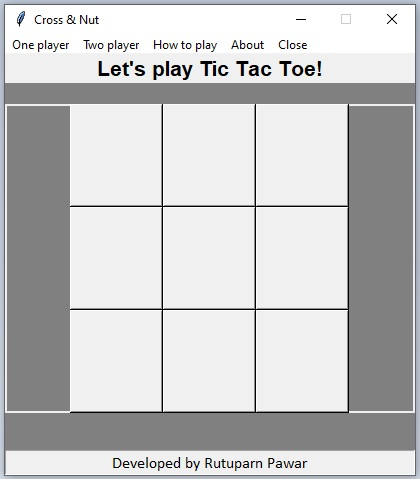
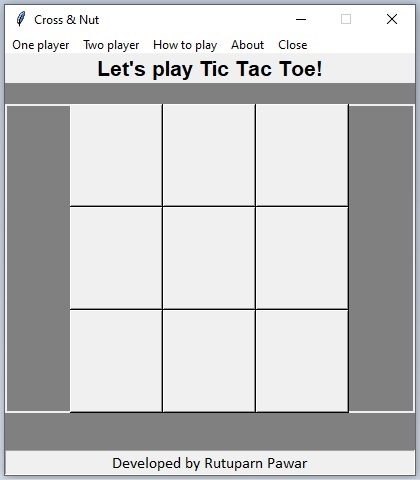
Marker color changed to light green

diff --git a/Tic_Tac_Toe.py b/Tic_Tac_Toe.py
@@ -249,19 +249,19 @@ class GUI(Tk):
 						win_count = win_count + 1
 				if win_count == 3:
 					if x == 0:
-						self.b_list[0].configure(bg='green')
-						self.b_list[1].configure(bg='green')
-						self.b_list[2].configure(bg='green')
+						self.b_list[0].configure(bg='#AFFFAF')
+						self.b_list[1].configure(bg='#AFFFAF')
+						self.b_list[2].configure(bg='#AFFFAF')
 						break 
 					elif x == 1:
-						self.b_list[3].configure(bg='green')
-						self.b_list[4].configure(bg='green')
-						self.b_list[5].configure(bg='green')
+						self.b_list[3].configure(bg='#AFFFAF')
+						self.b_list[4].configure(bg='#AFFFAF')
+						self.b_list[5].configure(bg='#AFFFAF')
 						break
 					elif x == 2:
-						self.b_list[6].configure(bg='green')
-						self.b_list[7].configure(bg='green')
-						self.b_list[8].configure(bg='green')
+						self.b_list[6].configure(bg='#AFFFAF')
+						self.b_list[7].configure(bg='#AFFFAF')
+						self.b_list[8].configure(bg='#AFFFAF')
 						break
 
 			# Check for 3 cross/nut in a column
@@ -272,19 +272,19 @@ class GUI(Tk):
 						win_count = win_count + 1
 				if win_count == 3:
 					if y == 0:
-						self.b_list[0].configure(bg='green')
-						self.b_list[3].configure(bg='green')
-						self.b_list[6].configure(bg='green')
+						self.b_list[0].configure(bg='#AFFFAF')
+						self.b_list[3].configure(bg='#AFFFAF')
+						self.b_list[6].configure(bg='#AFFFAF')
 						break 
 					elif y == 1:
-						self.b_list[1].configure(bg='green')
-						self.b_list[4].configure(bg='green')
-						self.b_list[7].configure(bg='green')
+						self.b_list[1].configure(bg='#AFFFAF')
+						self.b_list[4].configure(bg='#AFFFAF')
+						self.b_list[7].configure(bg='#AFFFAF')
 						break
 					elif y == 2:
-						self.b_list[2].configure(bg='green')
-						self.b_list[5].configure(bg='green')
-						self.b_list[8].configure(bg='green')
+						self.b_list[2].configure(bg='#AFFFAF')
+						self.b_list[5].configure(bg='#AFFFAF')
+						self.b_list[8].configure(bg='#AFFFAF')
 						break			   
 
 			# Check for 3 cross/nut across diagonals
@@ -293,9 +293,9 @@ class GUI(Tk):
 				if self.board.cross_nut_map[player] == self.board.grid_map[i][i]:
 					win_count = win_count + 1
 			if win_count == 3:
-				self.b_list[0].configure(bg='green')
-				self.b_list[4].configure(bg='green')
-				self.b_list[8].configure(bg='green')
+				self.b_list[0].configure(bg='#AFFFAF')
+				self.b_list[4].configure(bg='#AFFFAF')
+				self.b_list[8].configure(bg='#AFFFAF')
 				return
 
 			win_count = 0
@@ -307,9 +307,9 @@ class GUI(Tk):
 				win_count = win_count + 1
 			
 			if win_count == 3:
-				self.b_list[2].configure(bg='green')
-				self.b_list[4].configure(bg='green')
-				self.b_list[6].configure(bg='green')
+				self.b_list[2].configure(bg='#AFFFAF')
+				self.b_list[4].configure(bg='#AFFFAF')
+				self.b_list[6].configure(bg='#AFFFAF')
 				return
 			
 		
